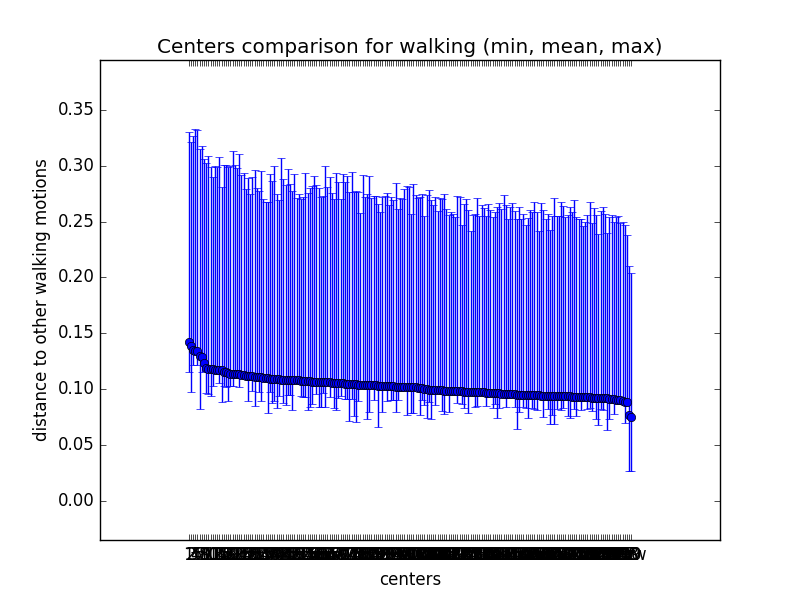
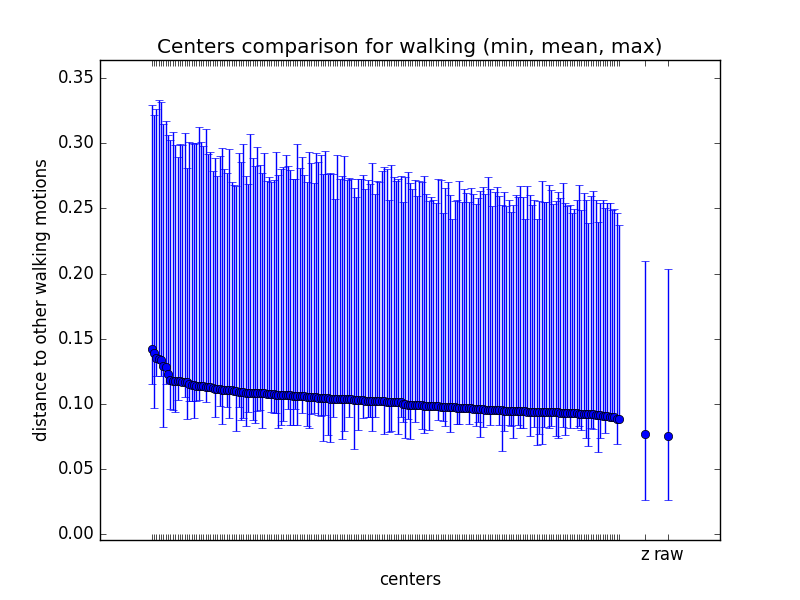
fix

diff --git a/RNN/utils/association_evaluation.py b/RNN/utils/association_evaluation.py
@@ -268,7 +268,8 @@ def plot_results(directory, model_name, action_type):
 		plt.xticks(x, [data['labels'][str(i)] for i in range(len(x))], rotation='vertical')
 		plt.xlabel('category')
 		plt.ylabel('closest distance')
-		plt.margins(0.2)
+		plt.margins(0.1)
+		plt.subplots_adjust(bottom=0.15)
 		plt.title('Distance to interpolated %s motion (min, mean, max)'%action_type)
 		plt.savefig(directory+'eval_generation-'+model_name+'.png')
 		plt.close()
@@ -276,15 +277,15 @@ def plot_results(directory, model_name, action_type):
 
 	with open(directory+'eval_center-'+model_name+'.json', 'rb') as jsonfile:
 		data = json.loads(jsonfile.read())
-		x = range(len(data['mean']))
+		x = range(200)+[210, 220]
 		idx = np.flip(np.argsort(data['mean'][:-2]), 0)
 		y = [data['mean'][i] for i in idx]+[data['mean'][-1], data['mean'][-2]]
 		print len(x), len(y)
 		yerr = [[data['min'][i] for i in idx]+[data['min'][-1], data['min'][-2]],
 				[data['max'][i] for i in idx]+[data['max'][-1], data['max'][-2]]]
 		plt.errorbar(x, y, yerr=yerr, fmt='o')
-		plt.xticks(x, map(str, range(1, len(x)-1)) + ['z', 'raw'])
-		plt.margins(0.2)
+		plt.xticks(x, ['']*200 + ['z', 'raw'])
+		plt.margins(0.1)
 		plt.xlabel('centers')
 		plt.ylabel('distance to other %s motions'%action_type)
 		plt.title('Centers comparison for %s (min, mean, max)'%action_type)
